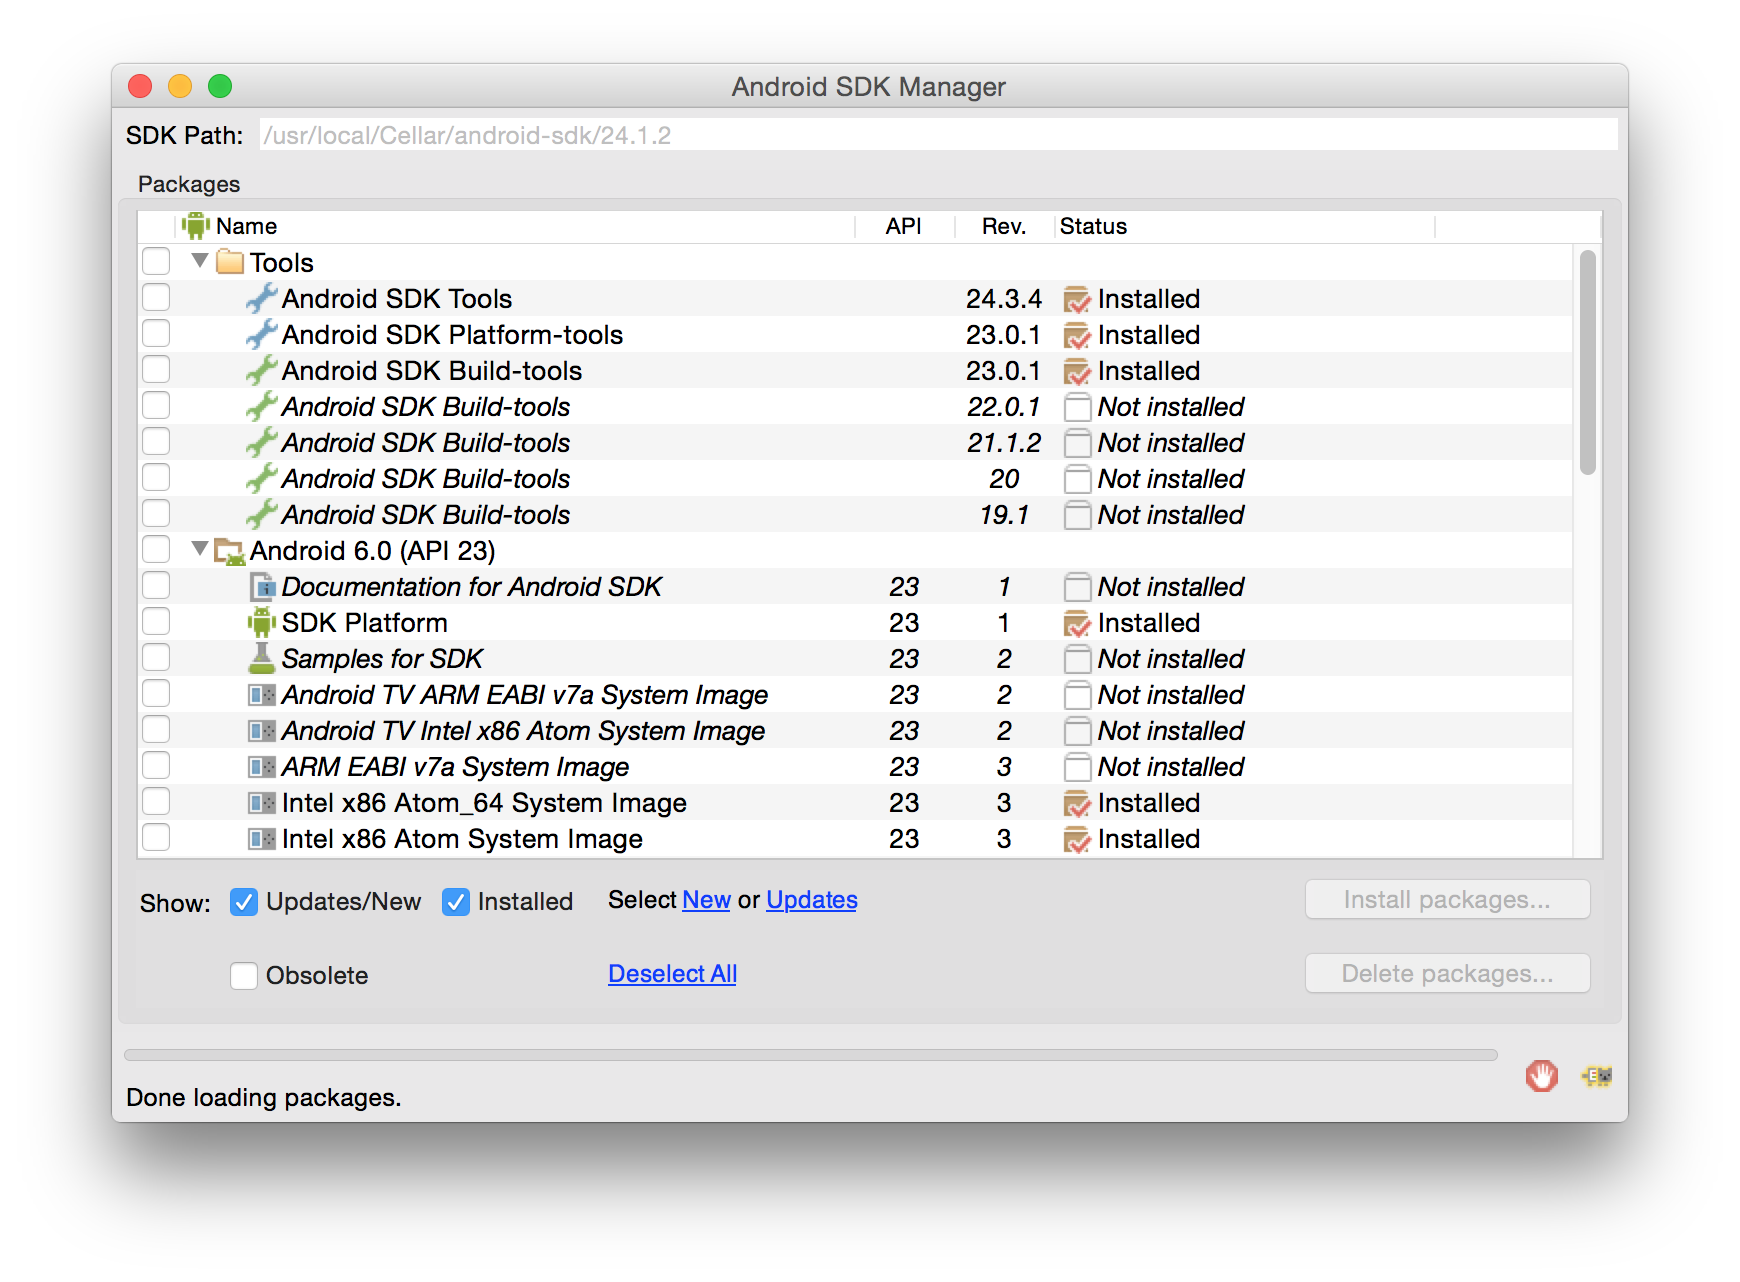
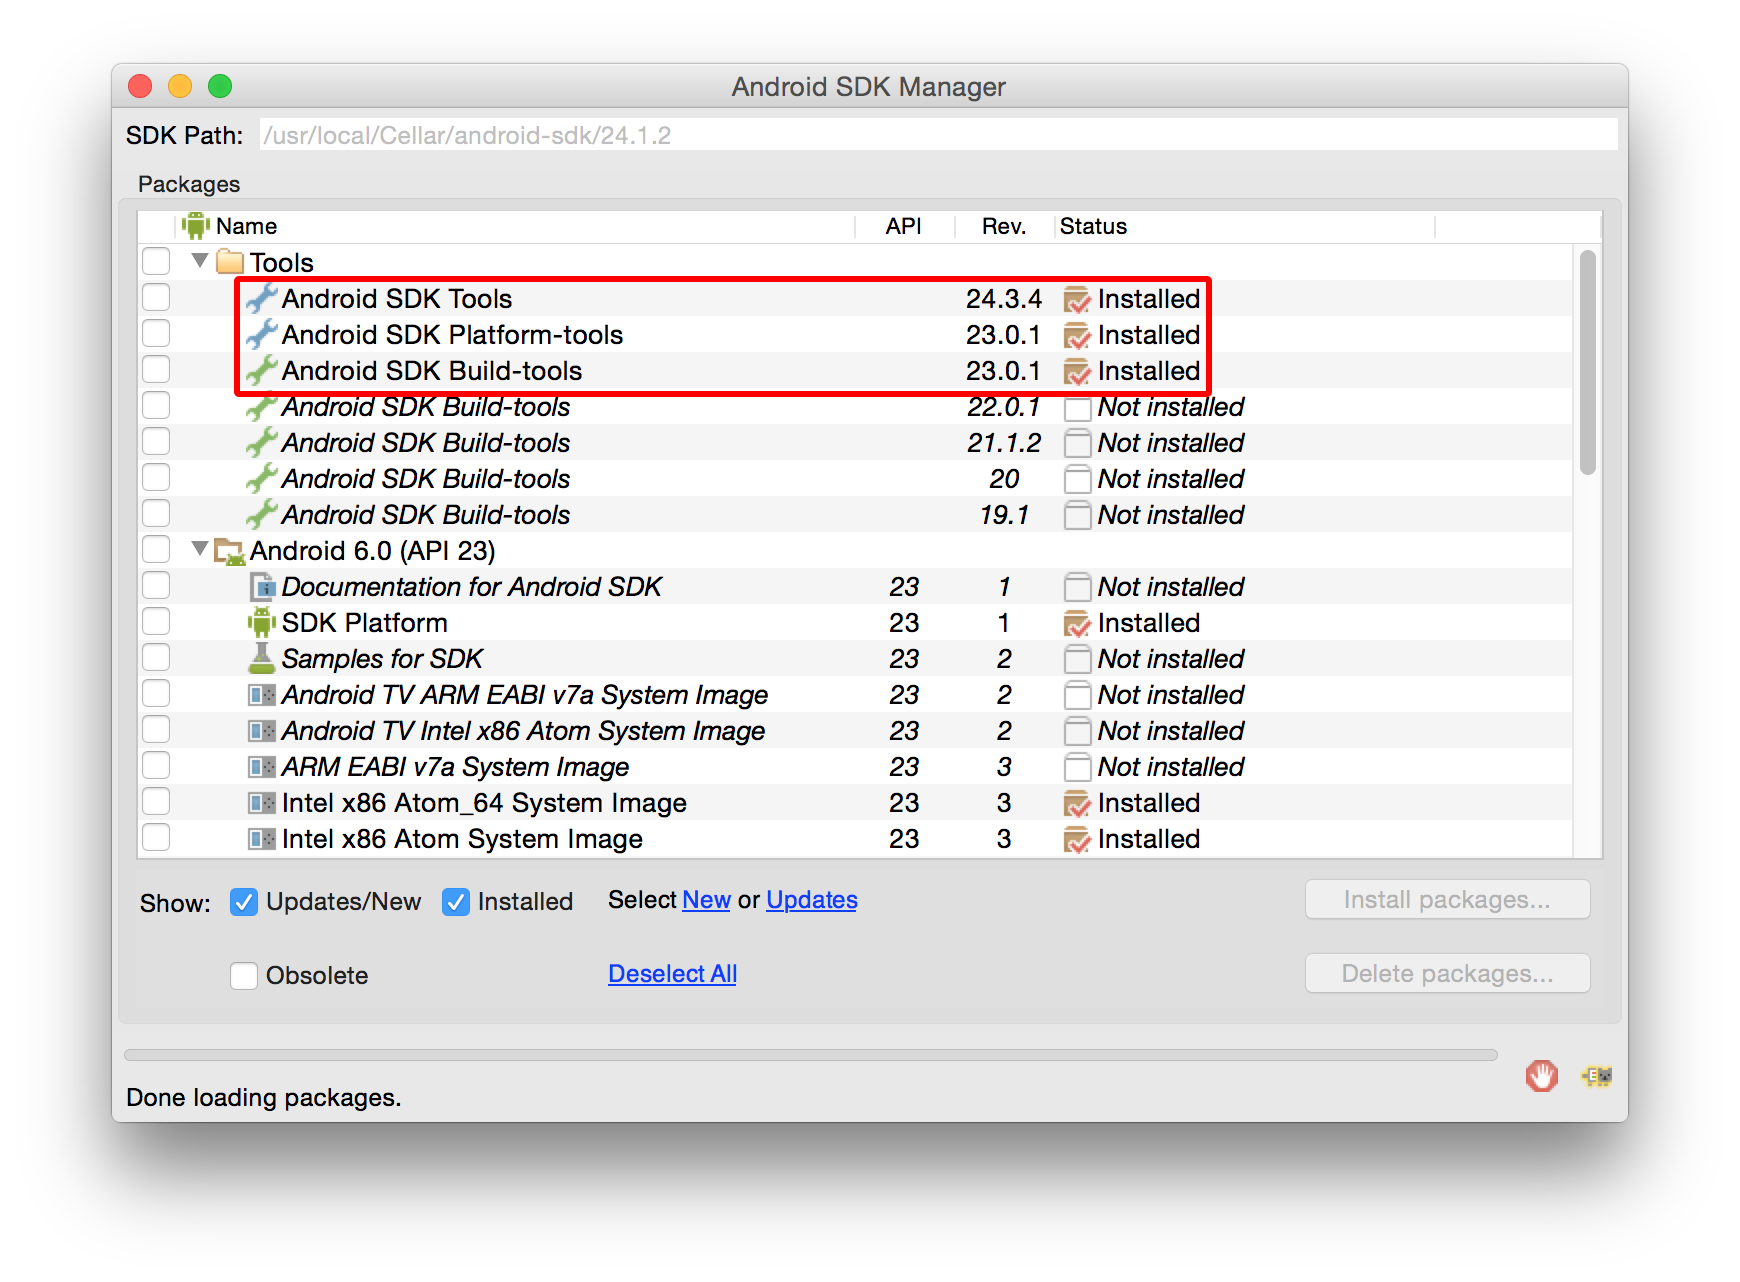
[docs] Simplify Android setup instructions

Changed region(s): [[0.1241, 0.2184, 0.7138, 0.312]]

diff --git a/docs/DevelopmentSetupAndroid.md b/docs/DevelopmentSetupAndroid.md
@@ -7,31 +7,34 @@ permalink: docs/android-setup.html
 next: tutorial
 ---
 
-This guide describes basic steps of the android development environment setup that are required to run React Native android apps on an android emulator. We don't discuss developer tool configuration such as IDEs here.
+__NOTE__: This guide needs to be extended for Windows. Can you send us a pull request?
 
-These instructions only cover installation "from scratch". If you happen to have some old, outdated version of Android SDK make sure to update required packages to the version mentioned below and install all the missing ones and make sure `ANDROID_HOME` points to your existing SDK.
+This guide describes basic steps of the Android development environment setup that are required to run React Native android apps on an android emulator. We don't discuss developer tool configuration such as IDEs here.
 
-### Install and configure SDK
+### If already have the Android SDK
 
-1. [Install the latest JDK](http://www.oracle.com/technetwork/java/javase/downloads/jdk8-downloads-2133151.html).
-2. Install the Android SDK with `brew install android-sdk`.
+1. __IMPORTANT__: Make sure the `ANDROID_HOME` environment variable points to your existing Android SDK
+2. Make sure to update the required packages to the versions mentioned below (see screenshots)
+
+### If you don't have the Android SDK
+
+1. [Install the latest JDK](http://www.oracle.com/technetwork/java/javase/downloads/jdk8-downloads-2133151.html)
+2. Install the Android SDK with `brew install android-sdk`
 3. Add this to your `~/.bashrc`, `~/.zshrc` or whatever your shell uses:
         export ANDROID_HOME=/usr/local/opt/android-sdk
-4. Start a new shell and run `android`; in the window that appears make sure you check:
+
+### Configure your SDK
+
+1. Start a new shell and run `android`; in the window that appears make sure you check:
   * Android SDK Build-tools version 23.0.1
   * Android 6.0 (API 23)
   * Android Support Repository
-5. Click "Install Packages".
+2. Click "Install Packages"
 
-### Install and run Android stock emulator
+![SDK Manager window](/react-native/img/AndroidSDK1.png) ![SDK Manager window](/react-native/img/AndroidSDK2.png)
 
-1. Start a new shell and run `android`; in the window that appears make sure you check:
-  * Intel x86 Atom System Image (for Android 5.1.1 - API 22)
-  * Intel x86 Emulator Accelerator (HAXM installer)
-  ![SDK Manager window](/react-native/img/AndroidSDK1.png) ![SDK Manager window](/react-native/img/AndroidSDK2.png)
-2. Click "Install Packages".
-3. [Configure HAXM](http://developer.android.com/tools/devices/emulator.html#vm-mac).
-4. Create an Android Virtual Device (AVD) to use with the Android emulator:
-  1. Run `android avd` and click on **Create...**
-  ![Create AVD dialog](/react-native/img/CreateAVD.png)
-  2. With the new AVD selected, click `Start...`
+### Install Genymotion
+
+1. Download and install [Genymotion](https://www.genymotion.com/)
+2. Open Genymotion
+3. Create a new emulator and start it
